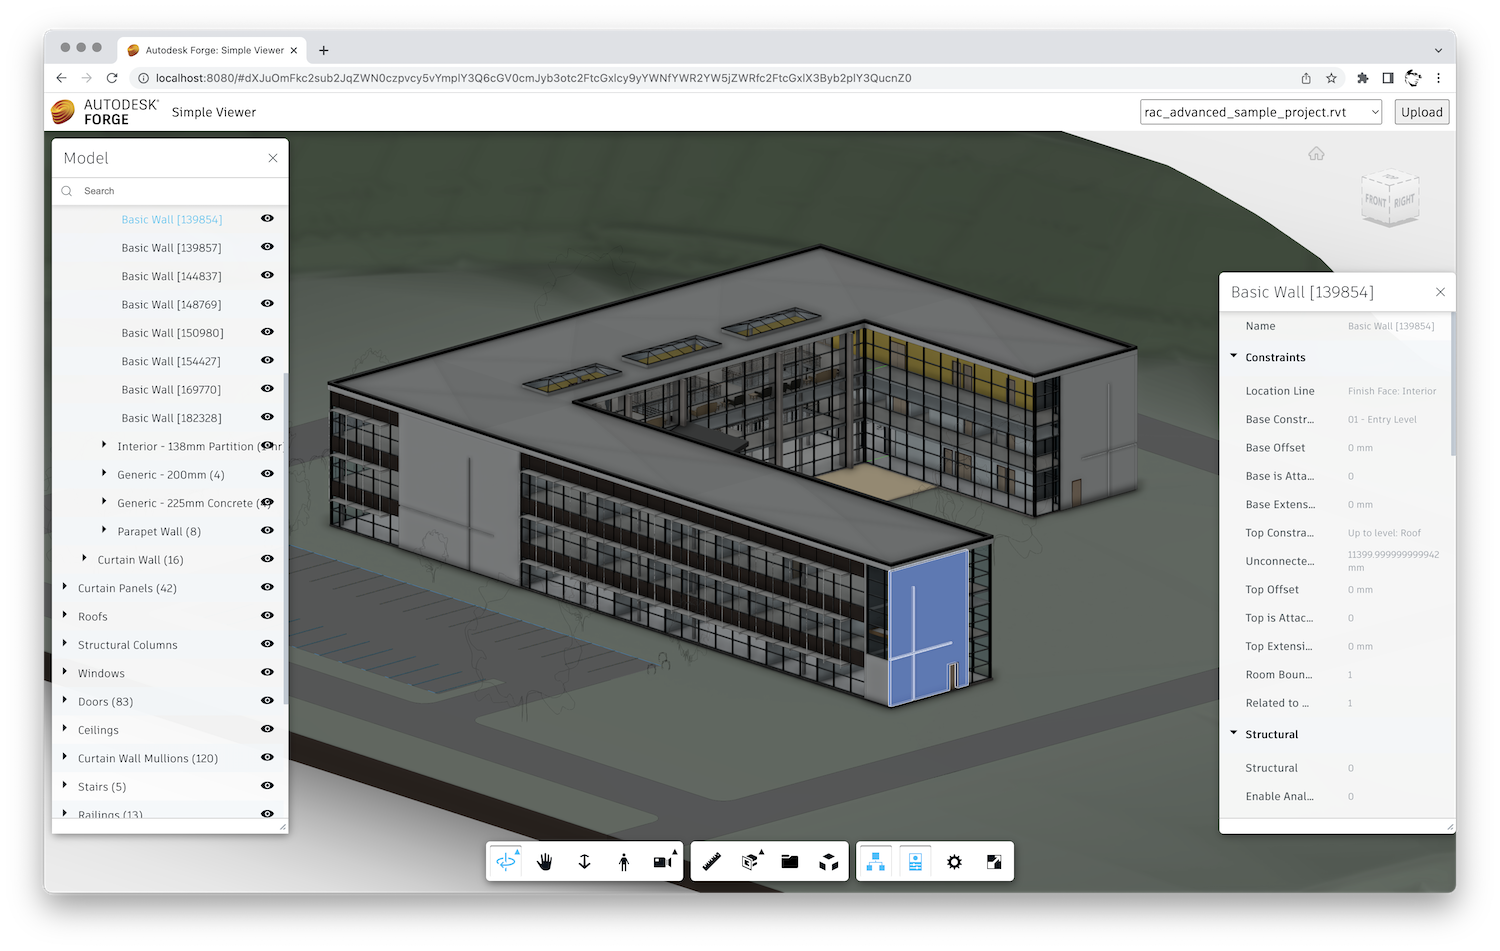
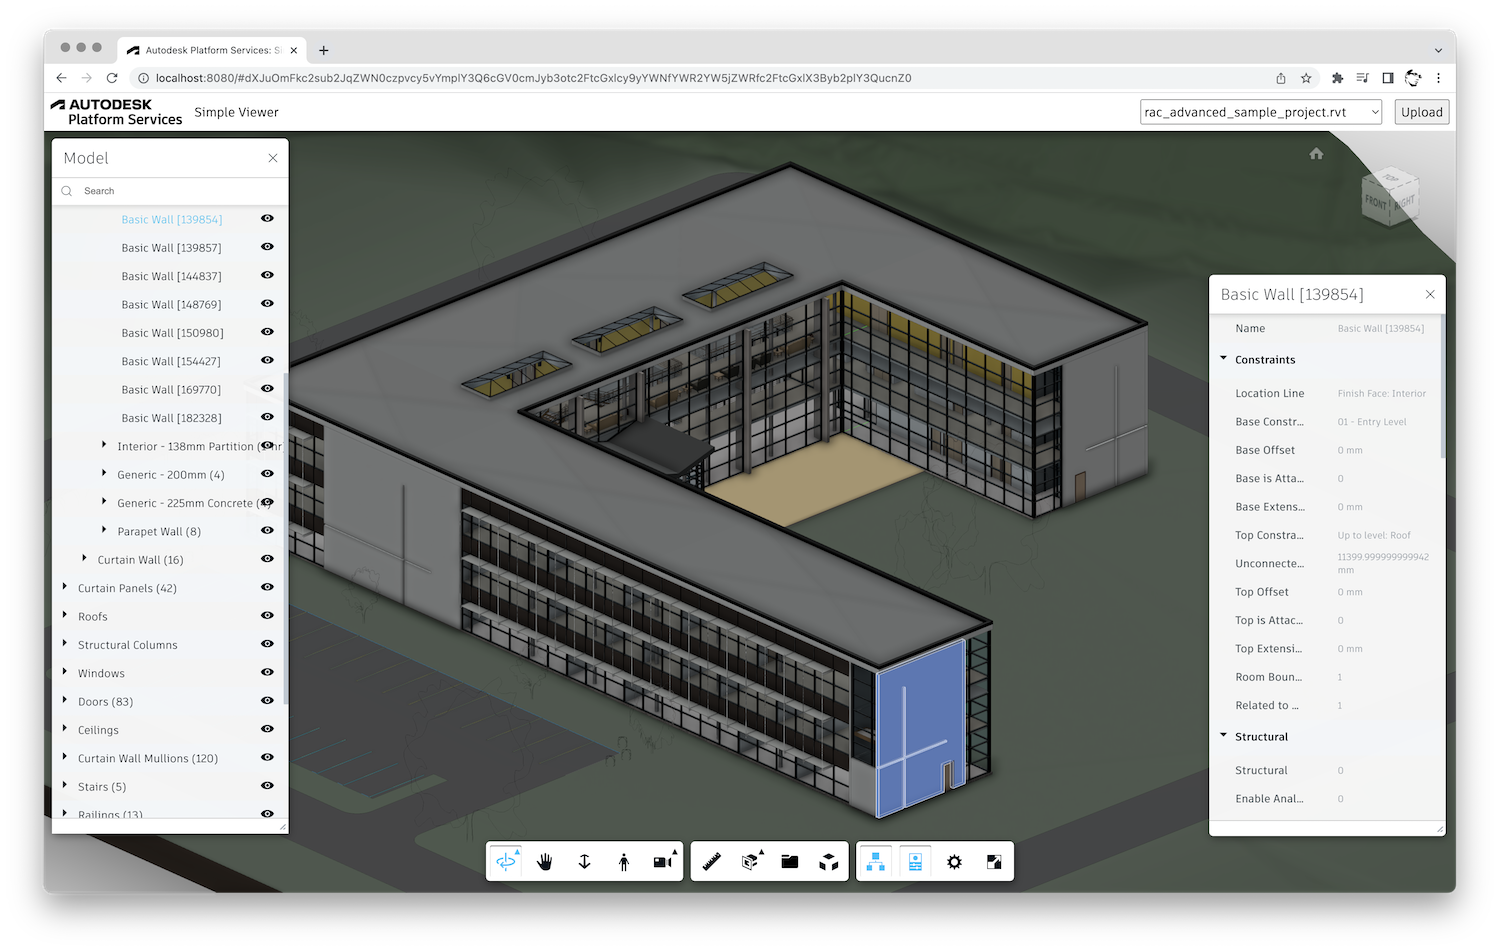
Re-branded Forge to APS.

diff --git a/wwwroot/viewer.js b/wwwroot/viewer.js
@@ -1,19 +1,18 @@
-/// import * as Autodesk from "@types/forge-viewer";
+async function getAccessToken(callback) {
+    try {
+        const resp = await fetch('/api/auth/token');
+        if (!resp.ok) {
+            throw new Error(await resp.text());
+        }
+        const { access_token, expires_in } = await resp.json();
+        callback(access_token, expires_in);
+    } catch (err) {
+        alert('Could not obtain access token. See the console for more details.');
+        console.error(err);
+    }
+}
 
 export function initViewer(container) {
-    async function getAccessToken(callback) {
-        try {
-            const resp = await fetch('/api/auth/token');
-            if (!resp.ok) {
-                throw new Error(await resp.text());
-            }
-            const { access_token, expires_in } = await resp.json();
-            callback(access_token, expires_in);
-        } catch (err) {
-            alert('Could not obtain access token. See the console for more details.');
-            console.error(err);
-        }
-    }
     return new Promise(function (resolve, reject) {
         Autodesk.Viewing.Initializer({ getAccessToken }, function () {
             const config = {

diff --git a/wwwroot/index.html b/wwwroot/index.html
@@ -5,14 +5,15 @@
     <meta charset="UTF-8">
     <meta name="viewport" content="width=device-width, initial-scale=1.0">
     <meta http-equiv="X-UA-Compatible" content="ie=edge">
+    <link rel="icon" type="image/x-icon" href="https://cdn.autodesk.io/favicon.ico">
     <link rel="stylesheet" href="https://developer.api.autodesk.com/modelderivative/v2/viewers/7.*/style.css">
     <link rel="stylesheet" href="/main.css">
-    <title>Autodesk Forge: Simple Viewer</title>
+    <title>Autodesk Platform Services: Simple Viewer</title>
 </head>
 
 <body>
     <div id="header">
-        <img class="logo" src="/logo.png" alt="Autodesk Forge">
+        <img class="logo" src="https://cdn.autodesk.io/logo/black/stacked.png" alt="Autodesk Platform Services">
         <span class="title">Simple Viewer</span>
         <select name="models" id="models"></select>
         <button id="upload" title="Upload New Model">Upload</button>

diff --git a/wwwroot/main.css b/wwwroot/main.css
@@ -2,7 +2,7 @@ body, html {
     margin: 0;
     padding: 0;
     height: 100vh;
-    font-family: ArtifaktElement; /* Will be added by Forge Viewer */
+    font-family: ArtifaktElement;
 }
 
 #header, #preview, #overlay {

diff --git a/Controllers/ModelsController.cs b/Controllers/ModelsController.cs
@@ -4,6 +4,7 @@ using System.Linq;
 using System.Threading.Tasks;
 using Microsoft.AspNetCore.Http;
 using Microsoft.AspNetCore.Mvc;
+using Autodesk.Forge.Client;
 
 [ApiController]
 [Route("api/[controller]")]
@@ -11,19 +12,19 @@ public class ModelsController : ControllerBase
 {
     public record BucketObject(string name, string urn);
 
-    private readonly ForgeService _forgeService;
+    private readonly APS _aps;
 
-    public ModelsController(ForgeService forgeService)
+    public ModelsController(APS aps)
     {
-        _forgeService = forgeService;
+        _aps = aps;
     }
 
     [HttpGet()]
     public async Task<IEnumerable<BucketObject>> GetModels()
     {
-        var objects = await _forgeService.GetObjects();
+        var objects = await _aps.GetObjects();
         return from o in objects
-               select new BucketObject(o.ObjectKey, ForgeService.Base64Encode(o.ObjectId));
+               select new BucketObject(o.ObjectKey, APS.Base64Encode(o.ObjectId));
     }
 
     [HttpGet("{urn}/status")]
@@ -31,10 +32,10 @@ public class ModelsController : ControllerBase
     {
         try
         {
-            var status = await _forgeService.GetTranslationStatus(urn);
+            var status = await _aps.GetTranslationStatus(urn);
             return status;
         }
-        catch (Autodesk.Forge.Client.ApiException ex)
+        catch (ApiException ex)
         {
             if (ex.ErrorCode == 404)
                 return new TranslationStatus("n/a", "", new List<string>());
@@ -59,8 +60,8 @@ public class ModelsController : ControllerBase
         {
             await form.File.CopyToAsync(stream);
             stream.Position = 0;
-            var obj = await _forgeService.UploadModel(form.File.FileName, stream);
-            var job = await _forgeService.TranslateModel(obj.ObjectId, form.Entrypoint);
+            var obj = await _aps.UploadModel(form.File.FileName, stream);
+            var job = await _aps.TranslateModel(obj.ObjectId, form.Entrypoint);
             return new BucketObject(obj.ObjectKey, job.Urn);
         }
     }

diff --git a/Startup.cs b/Startup.cs
@@ -18,14 +18,14 @@ public class Startup
     public void ConfigureServices(IServiceCollection services)
     {
         services.AddControllers();
-        var ForgeClientID = Configuration["FORGE_CLIENT_ID"];
-        var ForgeClientSecret = Configuration["FORGE_CLIENT_SECRET"];
-        var ForgeBucket = Configuration["FORGE_BUCKET"]; // Optional
-        if (string.IsNullOrEmpty(ForgeClientID) || string.IsNullOrEmpty(ForgeClientSecret))
+        var clientID = Configuration["APS_CLIENT_ID"];
+        var clientSecret = Configuration["APS_CLIENT_SECRET"];
+        var bucket = Configuration["APS_BUCKET"]; // Optional
+        if (string.IsNullOrEmpty(clientID) || string.IsNullOrEmpty(clientSecret))
         {
-            throw new ApplicationException("Missing required environment variables FORGE_CLIENT_ID or FORGE_CLIENT_SECRET.");
+            throw new ApplicationException("Missing required environment variables APS_CLIENT_ID or APS_CLIENT_SECRET.");
         }
-        services.AddSingleton<ForgeService>(new ForgeService(ForgeClientID, ForgeClientSecret, ForgeBucket));
+        services.AddSingleton<APS>(new APS(clientID, clientSecret, bucket));
     }
 
     // This method gets called by the runtime. Use this method to configure the HTTP request pipeline.

diff --git a/Controllers/AuthController.cs b/Controllers/AuthController.cs
@@ -8,17 +8,17 @@ public class AuthController : ControllerBase
 {
     public record AccessToken(string access_token, long expires_in);
 
-    private readonly ForgeService _forgeService;
+    private readonly APS _aps;
 
-    public AuthController(ForgeService forgeService)
+    public AuthController(APS aps)
     {
-        _forgeService = forgeService;
+        _aps = aps;
     }
 
     [HttpGet("token")]
     public async Task<AccessToken> GetAccessToken()
     {
-        var token = await _forgeService.GetPublicToken();
+        var token = await _aps.GetPublicToken();
         return new AccessToken(
             token.AccessToken,
             (long)Math.Round((token.ExpiresAt - DateTime.UtcNow).TotalSeconds)

diff --git a/Models/APS.cs b/Models/APS.cs
@@ -1,10 +1,10 @@
-public partial class ForgeService
+public partial class APS
 {
     private readonly string _clientId;
     private readonly string _clientSecret;
     private readonly string _bucket;
 
-    public ForgeService(string clientId, string clientSecret, string bucket = null)
+    public APS(string clientId, string clientSecret, string bucket = null)
     {
         _clientId = clientId;
         _clientSecret = clientSecret;

diff --git a/Models/APS.Deriv.cs b/Models/APS.Deriv.cs
@@ -5,7 +5,7 @@ using Autodesk.Forge.Model;
 
 public record TranslationStatus(string Status, string Progress, IEnumerable<string>? Messages);
 
-public partial class ForgeService
+public partial class APS
 {
     public static string Base64Encode(string plainText)
     {

diff --git a/Models/APS.Auth.cs b/Models/APS.Auth.cs
@@ -4,7 +4,7 @@ using Autodesk.Forge;
 
 public record Token(string AccessToken, DateTime ExpiresAt);
 
-public partial class ForgeService
+public partial class APS
 {
     private Token _internalTokenCache;
     private Token _publicTokenCache;

diff --git a/Models/APS.Oss.cs b/Models/APS.Oss.cs
@@ -6,7 +6,7 @@ using Autodesk.Forge;
 using Autodesk.Forge.Client;
 using Autodesk.Forge.Model;
 
-public partial class ForgeService
+public partial class APS
 {
     private async Task EnsureBucketExists(string bucketKey)
     {

diff --git a/README.md b/README.md
@@ -1,12 +1,12 @@
-# forge-simple-viewer-dotnet
+# aps-simple-viewer-dotnet
 
 ![platforms](https://img.shields.io/badge/platform-windows%20%7C%20osx%20%7C%20linux-lightgray.svg)
 [![.net](https://img.shields.io/badge/net-6.0-blue.svg)](https://dotnet.microsoft.com/en-us/download/dotnet/6.0)
 [![license](https://img.shields.io/:license-mit-green.svg)](https://opensource.org/licenses/MIT)
 
-Simple [Autodesk Forge](https://forge.autodesk.com) application built by following
-the [Simple Viewer](https://forge-tutorials.autodesk.io/tutorials/simple-viewer/) tutorial
-from https://forge-tutorials.autodesk.io.
+[Autodesk Platform Services](https://forge.autodesk.com) application built by following
+the [Simple Viewer](https://tutorials.autodesk.io/tutorials/simple-viewer/) tutorial
+from https://tutorials.autodesk.io.
 
 ![screenshot](screenshot.png)
 
@@ -14,7 +14,7 @@ from https://forge-tutorials.autodesk.io.
 
 ### Prerequisites
 
-- [Forge application](https://forge.autodesk.com/en/docs/oauth/v2/tutorials/create-app)
+- [APS credentials](https://forge.autodesk.com/en/docs/oauth/v2/tutorials/create-app)
 - [.NET 6](https://dotnet.microsoft.com/en-us/download/dotnet/6.0)
 - Terminal (for example, [Windows Command Prompt](https://en.wikipedia.org/wiki/Cmd.exe)
 or [macOS Terminal](https://support.apple.com/guide/terminal/welcome/mac))
@@ -24,9 +24,9 @@ or [macOS Terminal](https://support.apple.com/guide/terminal/welcome/mac))
 - Clone this repository
 - Install dependencies: `dotnet restore`
 - Setup environment variables:
-  - `FORGE_CLIENT_ID` - your Forge application client ID
-  - `FORGE_CLIENT_SECRET` - your Forge application client secret
-  - `FORGE_BUCKET` (optional) - name of Forge bucket to store your designs in
+  - `APS_CLIENT_ID` - your APS application client ID
+  - `APS_CLIENT_SECRET` - your APS application client secret
+  - `APS_BUCKET` (optional) - name of APS bucket to store your designs in
 - Run the server: `dotnet run`
 
 > When using [Visual Studio Code](https://code.visualstudio.com),
